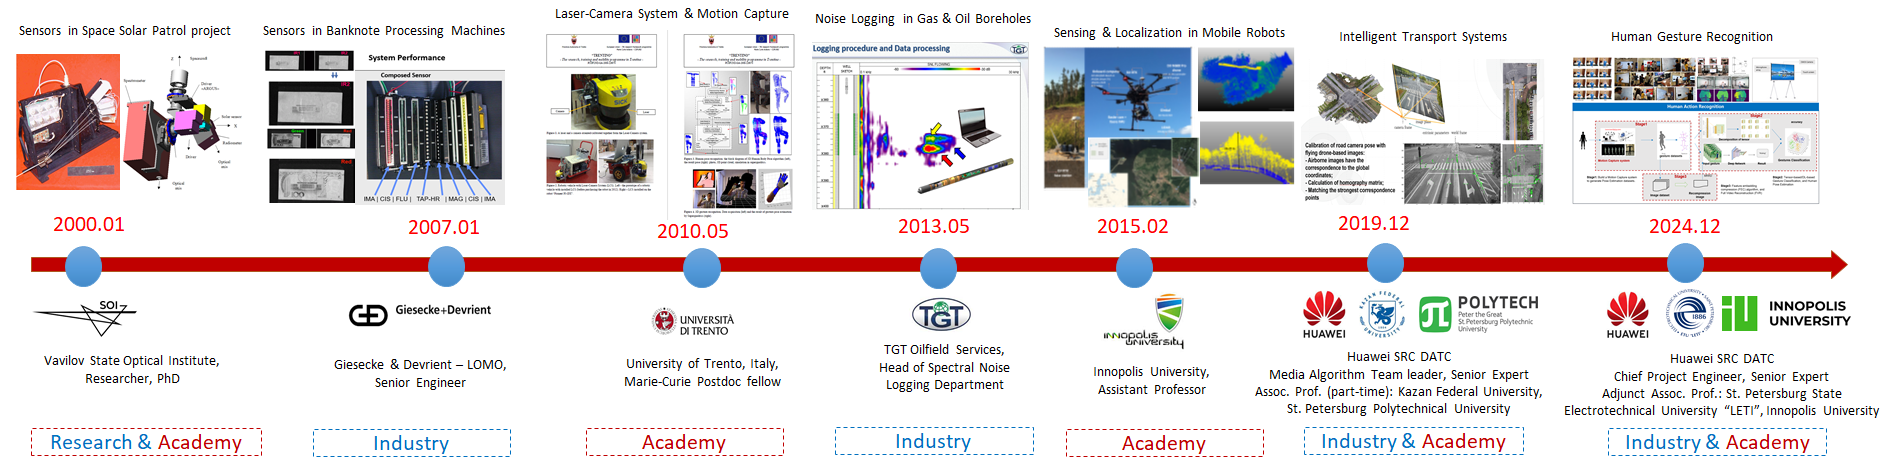
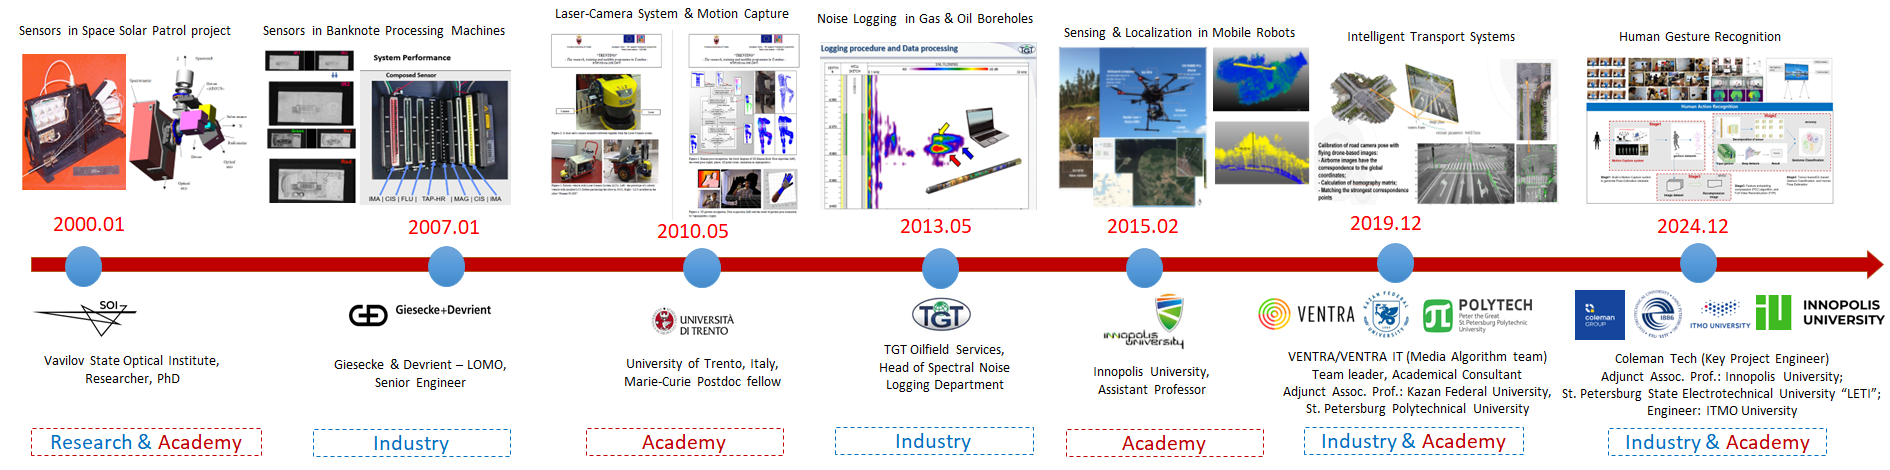
Update: Huawei contractor status, three pillars, AAMAS 2026, refreshed citations

diff --git a/index.md b/index.md
@@ -230,7 +230,7 @@ layout: default
     <div class="avatar-container">
       <img src="avatar.jpg" alt="Ilya Afanasyev" class="avatar">
     </div>
-    <p class="position">Expert at Chebyshev Research Center (Huawei) &<br>Adjunct Associate Professor</p>
+    <p class="position">Senior R&D Expert, Key Project Engineer &<br>Adjunct Associate Professor</p>
     <a href="https://github.com/afanasyspb" class="github-link">View My GitHub Profile</a>
 
     <div class="profile-links">
@@ -244,26 +244,29 @@ layout: default
   <div class="main-content">
     <h1>About Me</h1>
 
-    <p><strong>Ilya M. Afanasyev, Ph.D.</strong>, is an Expert at the <strong>Chebyshev Research Center (Huawei)</strong> and an Adjunct Associate Professor at <strong>Innopolis University</strong> and <strong>Saint Petersburg Electrotechnical University "LETI"</strong>. He earned his Ph.D. in Optical and Optoelectronical Devices from Vavilov State Optical Institute (2006).</p>
+    <p><strong>Ilya M. Afanasyev, Ph.D.</strong>, is a Senior R&D Expert and Key Project Engineer: a long-term external contractor engaged via IT consulting companies (Ventra, later Coleman Tech) to deliver research projects and technology expertise for their client, the <strong>Chebyshev Research Center (Huawei R&D, St. Petersburg)</strong>. Always an external expert, never a Huawei employee. He is also an Adjunct Associate Professor (Docent) at <strong>Innopolis University</strong>, Center for Top-Tier Educational Programs in AI. He earned his Ph.D. in Optical and Optoelectronical Devices from Vavilov State Optical Institute (2006).</p>
 
-    <p>With over two decades of R&D experience, Dr. Afanasyev has worked in industry (Huawei, TGT, Giesecke & Devrient) and held academic positions at various institutions. He specializes in <strong>Autonomous Systems, Sensors, Computer Vision, and Mobile Robotics</strong>.</p>
+    <p>With over two decades of R&D experience across industry and academia (Marie Curie fellowship at the University of Trento, Italy; TGT Oilfield Services; Giesecke & Devrient), he specializes in <strong>Autonomous Systems, Sensors, Computer Vision, and Mobile Robotics</strong>. His current work rests on three pillars: computational and algorithmic optimization of perception pipelines (GPU and CPU), the Julia programming language for scientific computing, and Geometric (Clifford) Algebra as a unified mathematical language for robotics.</p>
 
-    <p>He is a <strong>Marie Curie Fellow alumnus</strong>, holder of 2 patents, and author of 50+ publications indexed in Scopus/WoS.</p>
+    <p>He is a <strong>Marie Curie Fellow alumnus</strong>, holder of 2 patents, and author of 120+ publications (56 indexed in Scopus/WoS), with an h-index of 23 and about 2,000 citations (Google Scholar).</p>
 
     <h2>📅 Experience Timeline</h2>
 
     <div class="timeline-container" onclick="openLightbox()">
-      <img src="timeline.png" alt="Career Timeline (2000-2025)">
-      <div class="timeline-caption">My academic and industrial career path (2000–2025). Click image to enlarge.</div>
+      <img src="timeline.png" alt="Career Timeline (2000-2026)">
+      <div class="timeline-caption">My academic and industrial career path (2000-2026). Click image to enlarge.</div>
     </div>
 
     <h2>🔬 Research Interests</h2>
 
     <ul class="research-list">
+      <li><strong>Geometric (Clifford) Algebra:</strong> dual-quaternion geometric observers on SE(3), conformal geometric algebra for scene representation</li>
+      <li><strong>State Estimation & Sensor Fusion:</strong> 6-DoF pose estimation, multi-radar/multi-camera calibration, IMU and visual odometry fusion</li>
       <li><strong>Mobile Robotics:</strong> SLAM, Navigation, Path Planning</li>
       <li><strong>Computer Vision:</strong> Object Detection, Tracking, Camera Calibration</li>
-      <li><strong>Sensors:</strong> Sensor Fusion, Optical Sensors, IMU</li>
-      <li><strong>Intelligent Systems:</strong> UAV, Intelligent Transportation Systems (ITS)</li>
+      <li><strong>Computational & Algorithmic Optimization:</strong> accelerating perception pipelines for GPU and CPU architectures</li>
+      <li><strong>Julia for Scientific Computing:</strong> differentiable programming and rapid prototyping in robotics</li>
+      <li><strong>Intelligent Systems:</strong> UAV, Intelligent Transportation Systems (ITS), Human-Computer Interaction</li>
     </ul>
 
     <h2>📚 Selected Publications & Patents</h2>
@@ -271,27 +274,27 @@ layout: default
     <p>Please visit my <a href="https://scholar.google.ru/citations?user=Ogv_bdYAAAAJ" target="_blank">Google Scholar Profile</a> for the full list.</p>
 
     <p>
+      <span class="pub-category">A-level Conference Paper (Geometric Algebra in Sensor Fusion)</span><br>
+      1. <strong>Geometric State Fusion for Autonomous Agents: A Comparative Analysis of Dual Quaternion Observer and Kalman Filters.</strong><br>
+      I. Afanasyev. 
+      <em>Extended Abstract 1168, Proc. of the 25th International Conference on Autonomous Agents and Multiagent Systems (AAMAS 2026)</em>, May 25-29, 2026, Paphos, Cyprus, IFAAMAS, 2026, pp. 3480-3482. 
+      <a href="https://doi.org/10.65109/CMZH8882" target="_blank">DOI: 10.65109/CMZH8882</a>, Project page: <a href="https://afanasyspb.github.io/SE3-Manifold-Lib/geodq.html" target="_blank">SE3-Manifold-Lib/GeoDQ</a>
+    </p>
+
+    <p>
       <span class="pub-category">Most Cited (SLAM Benchmarking)</span><br>
-      1. <strong>Comparison of Various SLAM Systems for Mobile Robot in an Indoor Environment.</strong><br>
+      2. <strong>Comparison of Various SLAM Systems for Mobile Robot in an Indoor Environment.</strong><br>
       M. Filipenko, I. Afanasyev. 
       <em>9th IEEE International Conference on Intelligent Systems (IS)</em>, 2018. 
-      [Cited by ~250+] <a href="https://doi.org/10.1109/IS.2018.8710464" target="_blank">DOI</a>
+      [Cited by ~300+] <a href="https://doi.org/10.1109/IS.2018.8710464" target="_blank">DOI</a>
     </p>
 
     <p>
       <span class="pub-category">Lidar SLAM & Ground Truth Analysis</span><br>
-      2. <strong>Map Comparison of Lidar-based 2D SLAM Algorithms Using Precise Ground Truth.</strong><br>
+      3. <strong>Map Comparison of Lidar-based 2D SLAM Algorithms Using Precise Ground Truth.</strong><br>
       R. Yagfarov, M. Ivanou, I. Afanasyev. 
       <em>Int. Conference on Control, Automation, Robotics and Vision (ICARCV)</em>, Singapore, 2018. 
-      [Cited by ~130+] <a href="https://doi.org/10.1109/ICARCV.2018.8581131" target="_blank">DOI</a>
-    </p>
-
-    <p>
-      <span class="pub-category">Top Journal (UAV Efficiency)</span><br>
-      3. <strong>Game Theory-based Parameter Tuning for Energy-efficient Path Planning on Modern UAVs.</strong><br>
-      D. Moolchandani, I. Afanasyev, et al. 
-      <em>ACM Transactions on Cyber-Physical Systems</em>, Vol. 6(4), 2022. 
-      <a href="https://doi.org/10.1145/3565270" target="_blank">DOI</a>
+      [Cited by ~170+] <a href="https://doi.org/10.1109/ICARCV.2018.8581131" target="_blank">DOI</a>
     </p>
 
     <p>
@@ -299,12 +302,20 @@ layout: default
       4. <strong>Towards the Internet of Robotic Things: Analysis, Architecture, Components and Challenges.</strong><br>
       I. Afanasyev, et al. 
       <em>12th International Conference on Developments in eSystems Engineering (DeSE)</em>, 2019. 
-      [Cited by ~80] <a href="https://arxiv.org/abs/1907.03817" target="_blank">arXiv</a>
+      [Cited by ~100] <a href="https://arxiv.org/abs/1907.03817" target="_blank">arXiv</a>
+    </p>
+
+    <p>
+      <span class="pub-category">Top Journal (UAV Efficiency)</span><br>
+      5. <strong>Game Theory-based Parameter Tuning for Energy-efficient Path Planning on Modern UAVs.</strong><br>
+      D. Moolchandani, I. Afanasyev, et al. 
+      <em>ACM Transactions on Cyber-Physical Systems</em>, Vol. 6(4), 2022. 
+      <a href="https://doi.org/10.1145/3565270" target="_blank">DOI</a>
     </p>
 
     <p>
       <span class="pub-category">Patents (Hardware & UAV)</span><br>
-      5. <strong>Modular multi-rotor unmanned aerial vehicle of vertical take-off and landing.</strong><br>
+      6. <strong>Modular multi-rotor unmanned aerial vehicle of vertical take-off and landing.</strong><br>
       M. Galimov, I. Afanasyev, et al. 
       <em>Patent RU 2706765</em>, 2019. 
       <a href="https://patents.google.com/patent/RU2706765C1/en" target="_blank">Google Patents</a>
@@ -313,24 +324,33 @@ layout: default
     <h2>🎓 Teaching (Highlights)</h2>
 
     <ul class="research-list">
-      <li><strong>Advanced Robotics</strong> (Master's level) – Innopolis University (2025-2026)</li>
-      <li><strong>Optoelectronic Detecting Technology</strong> – ITMO & CUST (China), Changchun, 2025</li>
-      <li><strong>Foundation of Robotics</strong> – Kazan Federal University, 2021-2022</li>
-      <li><strong>Computer Vision with OpenCV</strong> – Kazan Federal University, 2022</li>
-      <li><strong>Sensors & Sensing</strong> – Innopolis University (2018-2020), SPbPU (2021)</li>
-      <li><strong>Intelligent Mobile Robotics</strong> – Innopolis University (2016-2020)</li>
-      <li><strong>Control Theory</strong> – Innopolis University (2016-2019)</li>
+      <li><strong>Advanced Robotics</strong> (Master's level), Innopolis University (2025-2026)</li>
+      <li><strong>Optoelectronic Detecting Technology</strong> and <strong>Condensed Matter Physics</strong>, ITMO & CUST (China), Changchun, 2025</li>
+      <li><strong>Foundation of Robotics</strong> and <strong>Computer Vision with OpenCV</strong>, Kazan Federal University (2021-2022)</li>
+      <li><strong>Sensors of Transport Systems</strong> and <strong>Graph Database and Data Management</strong>, SPbPU industrial track (2021-2023)</li>
+      <li><strong>Sensors & Sensing</strong>, Innopolis University (2018-2020) and SPbPU (2021)</li>
+      <li><strong>Intelligent Mobile Robotics</strong>, Innopolis University (2016-2020)</li>
+      <li><strong>Control Theory</strong>, Innopolis University (2016-2019)</li>
+      <li><strong>PhD supervision:</strong> Anvar Tliamov (since September 2025), mathematical modelling for robotics and multi-agent systems</li>
+    </ul>
+
+    <h2>🤝 Service to the Profession</h2>
+
+    <ul class="research-list">
+      <li><strong>Reviewer:</strong> IEEE T-ASE, IEEE RA-L, IFAC, IEEE CASE, IEEE Access, MDPI Sensors</li>
+      <li><strong>Invited Speaker:</strong> IEEE ICARA 2023 (Abu Dhabi, UAE)</li>
+      <li><strong>Session Chair:</strong> TOOLS 50+1 (Innopolis, 2019)</li>
     </ul>
 
     <div class="last-updated">
-      <small>Last updated: January 2026</small>
+      <small>Last updated: August 2026</small>
     </div>
   </div>
 </div>
 
 <div id="lightbox" class="lightbox-modal">
   <span class="lightbox-close" onclick="closeLightbox(event)">&times;</span>
-  <img class="lightbox-image" src="timeline.png" alt="Career Timeline (2000-2025)">
+  <img class="lightbox-image" src="timeline.png" alt="Career Timeline (2000-2026)">
 </div>
 
 <script>
